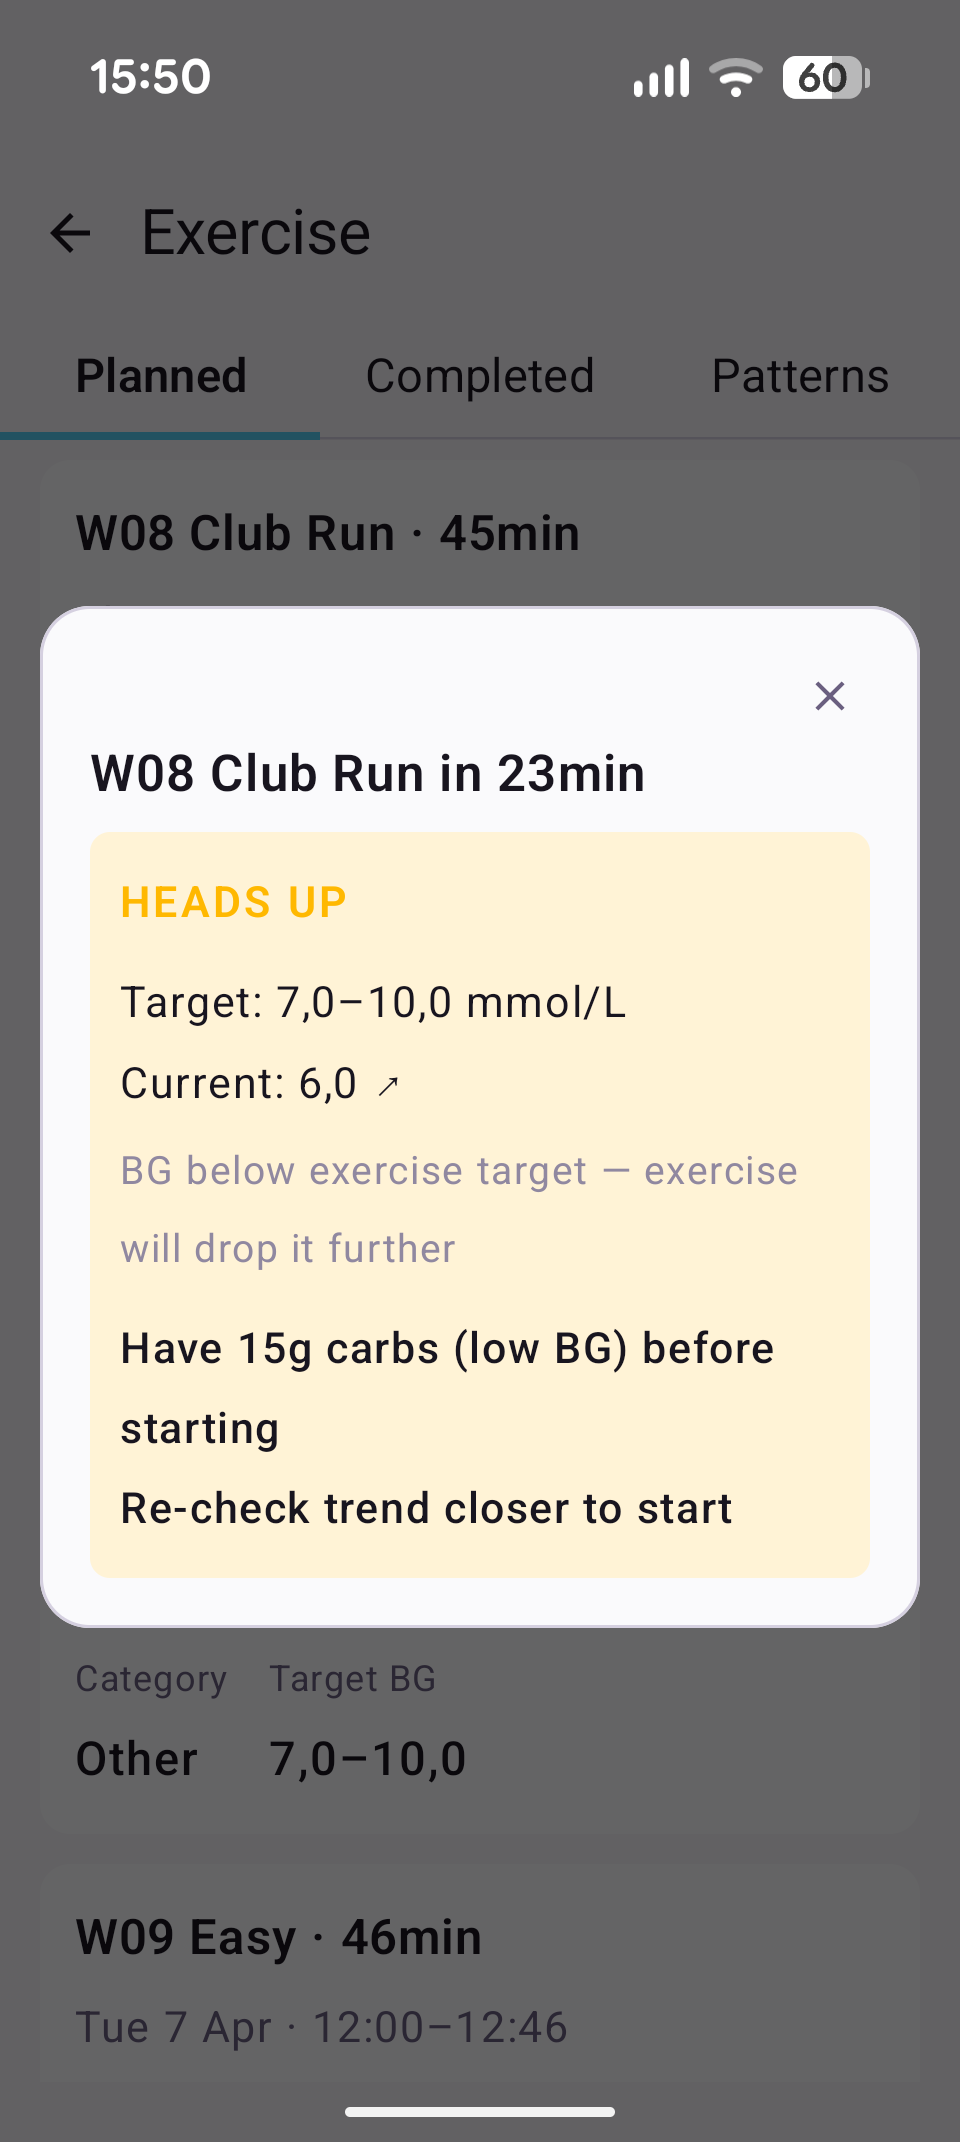
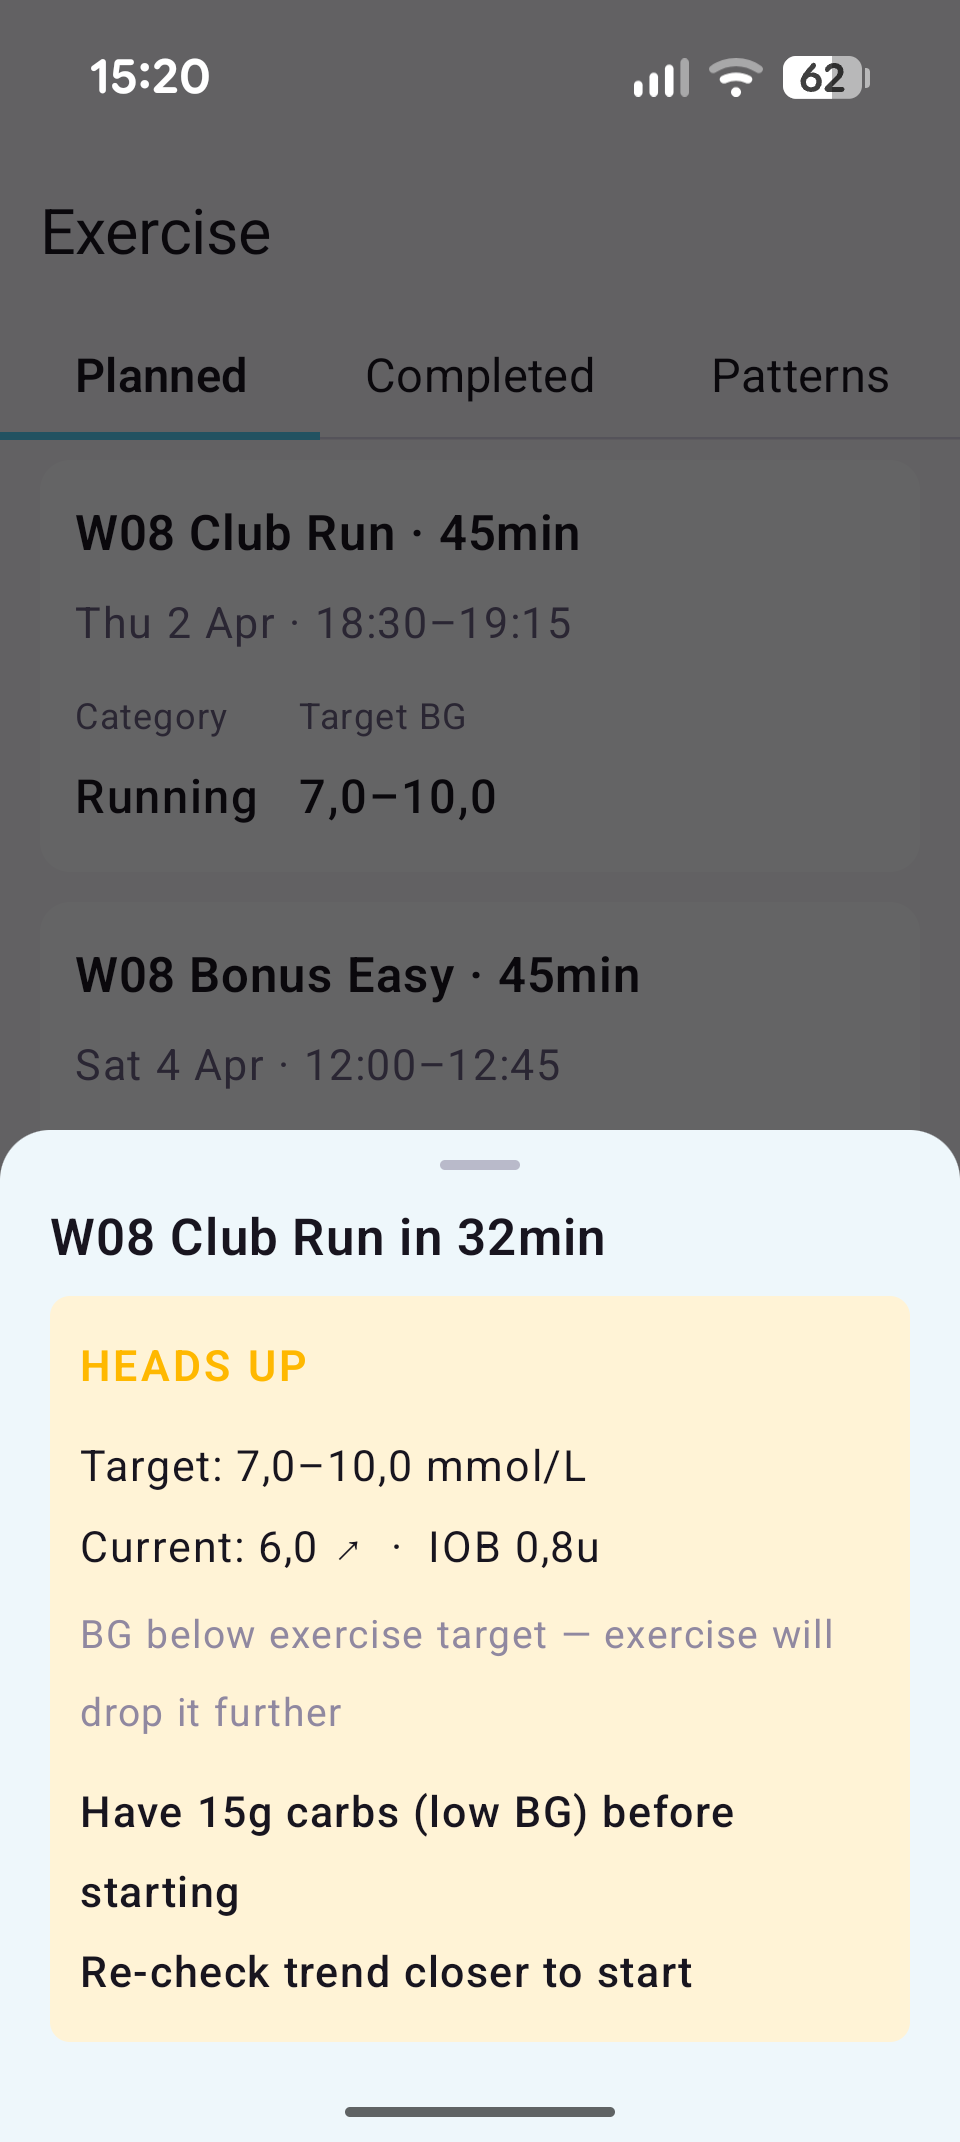
Update screenshots for 1.0 release
- Add iob-detail.png (new: IOB decay curve + active boluses)
- Retake settings.png (now shows Exercise + Sharing menu items)
- Retake exercise-detail.png (new bottomsheet with BG graph + stats grid)
- Retake agp-report.png (was light theme, now matches app theme)
- Retake meal-analysis-lunch.png (was light theme, now matches)
- Retake pre-activity-guidance.png (was light theme, now matches)
- Update README screenshot gallery: add IOB, reorder for better flow

diff --git a/README.md b/README.md
@@ -63,20 +63,20 @@ Strimma sits alongside your CGM app and gives you a better glucose display, aler
 
 <p align="center">
   <img src="docs/screenshots/main-screen.png" width="240" alt="Main screen with BG graph" />
+  <img src="docs/screenshots/iob-detail.png" width="240" alt="IOB breakdown with decay curve" />
   <img src="docs/screenshots/notification-expanded.png" width="240" alt="Expanded notification with graph" />
-  <img src="docs/screenshots/statistics.png" width="240" alt="Statistics" />
 </p>
 
 <p align="center">
   <img src="docs/screenshots/exercise-graph.png" width="240" alt="Exercise band on glucose graph" />
-  <img src="docs/screenshots/exercise-history.png" width="240" alt="Exercise history with BG stats" />
   <img src="docs/screenshots/exercise-detail.png" width="240" alt="Exercise detail with BG analysis" />
+  <img src="docs/screenshots/pre-activity-guidance.png" width="240" alt="Pre-activity guidance" />
 </p>
 
 <p align="center">
-  <img src="docs/screenshots/pre-activity-guidance.png" width="240" alt="Pre-activity guidance card" />
   <img src="docs/screenshots/agp-report.png" width="240" alt="AGP report with TIR" />
   <img src="docs/screenshots/meal-analysis-lunch.png" width="240" alt="Meal postprandial analysis" />
+  <img src="docs/screenshots/settings.png" width="240" alt="Settings" />
 </p>
 
 ## Install
